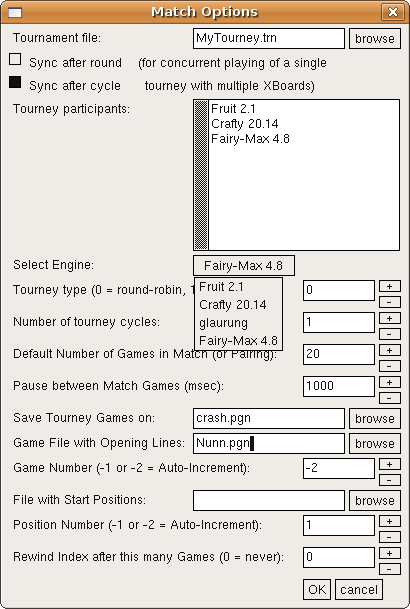
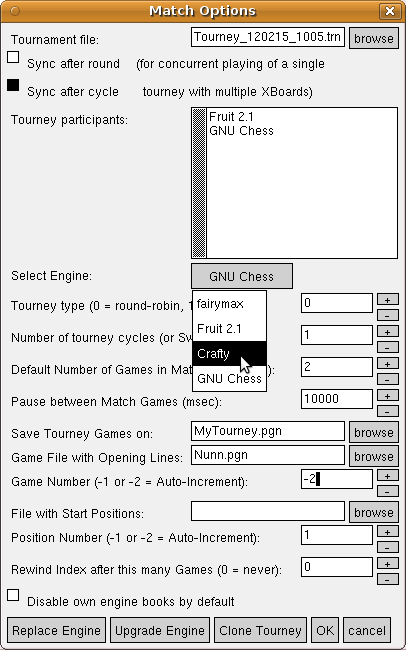
Add tournament-manager description to 4.6.0 pages

Changed region(s): [[0.0, 0.0, 1.0, 1.0], [0.9754, 0.9984, 1.0, 1.0]]

diff --git a/whats_new/4.6.0/TM.html b/whats_new/4.6.0/TM.html
@@ -1,0 +1,306 @@
+<!--#include virtual="/server/html5-header.html" -->
+<title>XBoard - Tournament manager</title>
+<!--#include virtual="/server/banner.html" -->
+<!--#set var="article_name" value="/server/standards/boilerplate" -->
+<!--#include virtual="/server/gnun/initial-translations-list.html" -->
+
+<h2>XBoard tourney-manager function</h2>
+<p>
+XBoard now has a built-in tournament manager,
+that can be used to make it play engine tournaments with more than two participants.
+To run such a tourney, XBoard will have to create a 'tournament file'.
+This can be done through the Match Options dialog.
+The tournament file is a special type of settings file,
+which contains all option settings needed to specify the tournament:
+the list of partcipating engines, the tournament type
+(round-robin, (multi-)gauntlet or Swiss),
+the number of games per pairing, the number of cycles, etc.
+This information is put in a file, rather than kept in XBoard's memory, for two reasons:
+so that you can easily resume the tournament should it get somehow interrupted,
+and to share it between different XBoards playing games in parallel for the same tourney.
+</p><p>
+For the rest a tournament behaves just like XBoard -matchMode.
+In fact it is just a special kind of match,
+where not all games are between the same two engines that you started with,
+but where new players can be selected before each game,
+and the tournament file tells XBoard how to do that.
+</p><p>
+All the tourney parameters that are kept in the tourney file
+can in principle also be specified from the command line, through options, 
+but that still would not cause XBoard to run a tourney.
+It is realy essential that XBoard has a tournament file for that,
+because it uses the latter also for recording the progress of the tourney:
+which games have already been played (and how they ended),
+and which games are currently in progress.
+With the aid of this information, XBoard will be able to resume a tourney that has been interrupted (by quitting XBoard). 
+It only requires re-starting XBoard with the existing tournament file:
+<pre>
+xbooard -mm -tf MyTourney.trn
+</pre>
+This will make XBoard pick up where it left off.
+XBoard is installed in such a way that the above command is automatically issued
+whenever you double-click a tourney file.
+</p><p>
+This design makes it also possible to have multiple instances of XBoard work on playing the tourney games.
+E.g. when you have a quad-core computer, and you are playing single-CPU engines in ponder-off games,
+one core is enough to completely handle a single game, so that you can run four games simultaneously.
+By starting multiple instances of XBoard with the same tourney file,
+these instances will then cooperate on completing the tourney.
+Each one will 'grab' a game from the tourney file that has not yet been played and is not in progress,
+mark it as being in progress, and starts playing it.
+When that game then finishes, The XBoard instance that had been playing it
+will replace the "in-progress" mark in the tourney file by the game result,
+and grab the next game that has not had any attention yet.
+This continues until the entire tourney is done.
+(Note there are options to delay starting games from a new round or cycle 
+until the previous one has been completed.)
+</p>
+<p>
+An XBoard tournament is organized as a number of cycles,
+where each cycle is a complete repetition of the previous one.
+The cycle is sub-divided into rounds, where each player plays a single other one.
+A round consists of a number of pairings, where one player plays one other.
+A pairing, finally, consists of a number of consecutively played games between the same players.
+So you can, for instance, do a 5-cycle round-robin with 8 players and two games per pairing.
+Players will then play two consecutive games against each other (with reversed colors)
+before the next pairing, with two other players, will start.
+After 4 such pairings (8 games) every player will have played two games against one opponent, 
+and a round is completed.
+After 7 such rounds, everyone has played everyone, which completes one tourney cycle.
+This will then be repeated 5 times, so that in the end everyone will have played everyone else 10 times.
+</p>
+<h3>New command-line options</h3>
+<p>
+To specify the tourney, some new command-line options have been defined in XBoard.
+Normally the user will not be exposed to these at all,
+as they are purely designed for storing the corresponding settings in the tournament files.
+They would not even be stored in the normal settings file (i.e. they are volatile options).
+New options are -participants, (which holds a list of engines, one per line),
+-tourneyType, -tourneyCycles, and -results.
+The latter specifies which games have already been played, as a string of +-=* characters,
+where an asterisk signifies the game is currently in progress.
+The -tourneyType can be 0 for a round-robin, an integer N > 0 for (multi-)gauntlets,
+(where the first N participants of the list each play all others),
+or -1 for Swiss.
+(The Swiss needs an external pairing engine; more about that later.)
+</p>
+<table cellpadding="10"><tr><td>
+<p>
+The previously existing option -defaultMatchGames is used to indicate the number of games per pairing,
+so that the total number of games per pairing will be the product of the value of -defaultMatchGames and -tourneyCycles.
+The -loadGameFile and -loadPositionFile, and the corresponding index specification
+-loadGameIndex, -loadPositionIndex and -rewindIndex are used during the games of a pairing
+in the same way as they would be used in a simple match between two engines,
+and are also specified in the tourney file.
+</p>
+<h3>Setting up a tournament from the menu</h3>
+<p>
+To start a tourney you can start XBoard with or without engine,
+and summon the Match Options dialog from the Options menu.
+There the most important thing you should do is specify a tournament file.
+If the file you specify already existed, (e.g. by using the browse button for it), it is all you have to specify,
+as all other settings will then be taken from that file.
+(This is what you would do to resume an interrupted tourney, or add a playing agent to an existing one.)
+If the file did not exist yet, it will be created as soon as you OK the dialog,
+but you have to complete the other parameters in the dialog first.
+XBoard is by default configured to propose a non-existing file, by deriving a name from the date and time.
+Unless you want the name to be more easily recognizable for later reference, you can accept that one.
+</p><p>
+So usually you will start picking the participants, 
+and a combobox in the dialog allows you to pick any installed engine as often as you want.
+The engines you select this way will be added to the displayed partcipants list.
+Note this participants list is a normal text edit,
+so that you can delete engines to correct mistakes,
+shuffle the order, etc.
+(Do not type the name of non-installed engines there, or change the names, though:
+they will then not be recognized!)
+After 'OK' all the settings will be written on the specified tourney file,
+with -results last, (automatically set to an empty string,
+to indicate none of the games has been played yet),
+and XBoard will then switch to match mode to run the tourney.
+</p><p>
+Games played during the tourney will be saved as usual on the -saveGameFile,
+depending on your option settings for this.
+You don't have to save the PGN, if you don't want to.
+</p>
+</td><td>
+<img src="Tourney.png">
+</td></tr></table>
+
+<table cellpadding="50"><tr><td>
+<pre>
+-participants {glaurung
+Fruit 2.1
+Fairy-Max 4.8
+Crafty 20.14
+}
+-tourneyType 0
+-tourneyCycles 1
+-defaultMatchGames 2
+-syncAfterRound true
+-syncAfterCycle true
+-saveGameFile "tm.pgn"
+-loadGameFile ""
+-loadGameIndex 0
+-loadPositionFile ""
+-loadPositionIndex 1
+-rewindIndex 0
+-results "=-+*"
+</pre>
+</td><td valign="top">
+<p>
+To the left you see an example of a tournament file of a (small) tourney in progress.
+Three games have been played, the fourth is in progress,
+as you can see in the -results string.
+When another XBoard instance starts a match with this tournament file specified,
+it will start playing the fifth game,
+and the -results string in the tourney file would change to "=-+**".
+</p>
+<p>
+When you would then quit the XBoard instance that is (apparently) playing game #4,
+it would change the result string to <pre>-results "=+- *"</pre> before it exits,
+indicating that game #4 is no longer in progress, but not yet played either.
+The XBoard instance that is still running
+(or a new one you start on this tournament file)
+will then grab it the next time.
+</p>
+</td></tr></table>
+<p>
+Note that XBoard has no windows (yet?) to show you the standings or the cross table of the tournament.
+The idea is that there exist already plenty programs to generate those from the PGN file.
+When you let all XBoard instances save the games they play to the same file,
+(this XBoard version uses file locking to make sure this can't cause problems!),
+you can use your favorite PGN-to-cross-table utility on it any time you want.
+</p>
+
+<h3>Synchronization in concurrent play</h3>
+<p>
+When you use multiple instances of XBoard to concurrently work on playing a tourney,
+the option -syncAfterRound can be used to prevent XBoard from starting games from a new round,
+when there are still unfnished games of a previous round.
+XBoard will then wait until all these games are finished,
+and automatically resume after that with the game of the next round it already picked.
+This way you can guarantee that the rounds appear well-ordered in the PGN file.
+There is a similar option -syncAfterCycle.
+But as a cycle end coincides with the end of a round, this option is only meaningful when -syncAfterRound is false.
+There are checkboxes near the top of the Match Options dialog where you can select if you want such synchronization,
+but when you do not plan to use concurrency in playing the tourney, you can of course completely ignore them.
+</p>
+
+<h3>Substituting participants during a tourney</h3>
+<p>
+You can substitute one participant for another in a tourney that is already in progress.
+(What you cannot do, however, is change the number of participants,
+as this would mess up the entire tournament schedule.)
+The Match Options dialog provides two buttons for that: Upgrade and Replace.
+The way it works is this:
+when you open the dialog while the tournament is playing,
+(in an XBoard that is actually playing it),
+you will see the list of participants and other tourney parameters of the current tourney already in their respective fields of the dialog.
+All you have to do is to replace one (and not more!) of the participant names by another,
+by editing the participants field.
+After that, you press one of the two buttons, and that is it!
+Upgrade will cause XBoard to use the new participant in stead of the old one in all future games,
+while Replace would also erase all game results of the participant you replaced,
+so that these games will be replayed.
+This can be done while the tourney is running, there is no need to pause it in any way.
+The only restriction currently is that you cannot use Replace on an engine that is currently playing
+because XBoard would not know how to erase the result of the game in progress,
+as it is not in yet, and another XBoard instance might be playing it.
+</p><p>
+Replacing one participant name by that of a new engine could be a bit tricky,
+as you would have to use the exact nickname under which the engine is installed.
+(XBoard performs lots of checks to see if there is a mistake there,
+but it is better not to run into error popups all the time,
+and having to do it again.)
+The recommended way for doing this is just select the substitute from the combobox,
+so that it will be added to the bottom of the list.
+You can then simply use drag and drop editing to move that bottom line
+to below the name of the engine you want to replace
+(because the order of the engines in the list must be preserved!),
+and then delete the line with the nickname of the participant to be replaced.
+</p>
+
+<h3>Running the same tourney as before</h3>
+<p>
+Sometimes you want to run a tourney with the same or nearly the same participants over and over again.
+This occurs, for instance, when you are testing an engine under development, by playing it against a fixed set of opponents.
+It would be a pain to have to pick all these oponents from the list
+every time you want to repeat this gauntlet with a new version of the engine you want to test.
+(The participants list could be very long!)
+</p>
+<p>
+To solve this, a 'Clone Tourney' button is provided in the Match Options dialog.
+All you have to do is select an existing tournament file (usually through the browse button),
+which can be of a completed tourney.
+But in stead of pressing OK after you have done that (which would attempt to resume that tourney),
+you now press 'Clone Tourney'.
+This copies all the parameters of the indicated tourneyfile (except the -results),
+so they appear in their dialog fields.
+At the same time it switches the name in the tourney-file field back to the one that was
+originally proposed when you opened the dialog.
+So that when you would press OK now, you would start a new tourney,
+with exactly the same parameters as the cloned one.
+</p>
+<p>
+Usually you would want to change some of the paramters first, however.
+Like replacing the name of the gauntlet engine in the 'participants' field by that of the newer version.
+Basicaly you can change anything you like, without restriction,
+as you are really setting up a completely new and independent tourney.
+The cloning was just a convenient way to quickly get some default settings for all of the parameters loaded into the dialog.
+</p>
+
+<h3>Editing tourney files</h3>
+
+<p>
+Although this is not recommended for a novice user, (and should also not be needed in normal applications),
+an experienced user that understands very well how things work might see some benefits in editing the tourney file.
+Remember that the tourney file is read by every XBoard instance playing on that tourney, before every game.
+So the tourney file is an ideal place to 'broadcast' a setting to all XBoards playing for that tourney, and none other.
+If you thus want to have some special setting of XBoard just for that tournament,
+which is not stored in the tourney file by default,
+you could simply add it there.
+</p><p>
+You would then automatically force this setting on all XBoards playing for the tourney,
+even those you will start up only tomorrow,
+even if in the mean time you have changed the settings XBoard uses at startup by doing something else with it in the mean time.
+For instance, you could write a '-variant fischerandom' option in the tourney file, 
+if not all engines are installed to automatically play Chess960.
+Or specify that the engine-output window should be closed, or Shogi pixmaps should be used for the pieces, or whatever.
+The only thing you have to keep in mind is that the -results option should always remain the last one in the file.
+So NEVER, NEVER append anything to the end of a tourney file!
+It would also be good practice to always keep the -participants option the first one in the file.
+(As this is used by the OS to determine mime-type of the file.)
+</p>
+
+</div><!-- for id="content", starts in the include above -->
+<!--#include virtual="/server/footer.html" -->
+<div id="footer">
+
+<p>Please send general FSF &amp; GNU inquiries to
+<a href="mailto:gnu@gnu.org">&lt;gnu@gnu.org&gt;</a>.
+There are also <a href="/contact/">other ways to contact</a>
+the FSF.<br />
+Please send broken links and other corrections or suggestions to
+<a href="mailto:bug-xboard@gnu.org">&lt;bug-xboard@gnu.org&gt;</a>.</p>
+
+<p>Please see the <a
+href="/server/standards/README.translations.html">Translations
+README</a> for information on coordinating and submitting translations
+of this article.</p>
+
+<p>Copyright &copy; 2009, 2010, 2011, 2012 Free Software Foundation, Inc.</p>
+
+<p>This page is licensed under a <a rel="license"
+href="http://creativecommons.org/licenses/by-nd/3.0/us/">Creative
+Commons Attribution-NoDerivs 3.0 United States License</a>.</p>
+
+<p>Updated:
+<!-- timestamp start -->
+$Date: 2012/02/10 07:45:12 $
+<!-- timestamp end -->
+</p>
+</div>
+</div>
+</body>
+</html>

diff --git a/whats_new/4.6.0/index.html b/whats_new/4.6.0/index.html
@@ -301,7 +301,7 @@ You can both specify a number of games per pairing (which are played consecutive
 and a number of 'cycles', i.e. repeats of the entire pairing scheme after all pairings are played.
 When multiple instances of XBoard are working on the same tournament,
 you can make them wait for each other at the end of a round or cycle.
-For a more elaborate description, look <a href="http://hgm.nubati.net/TM.html">here</a>.
+For a more elaborate description, look <a href="TM.html">here</a>.
 </p>
 <img src="TourneyWB2.png" align="right">
 </td></tr></tbody></table>
